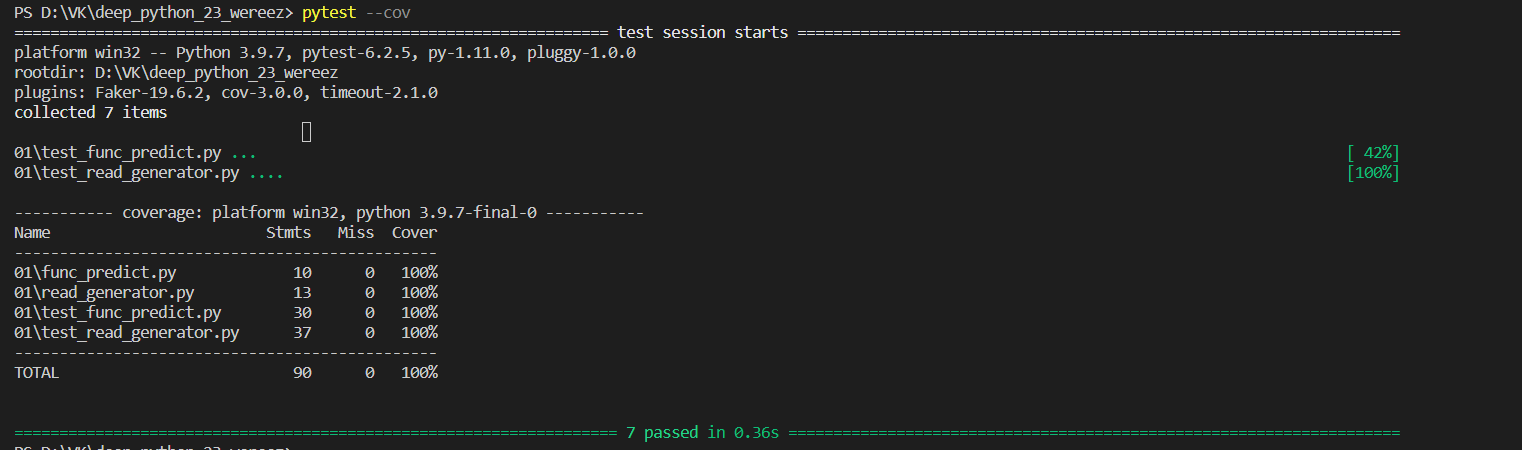
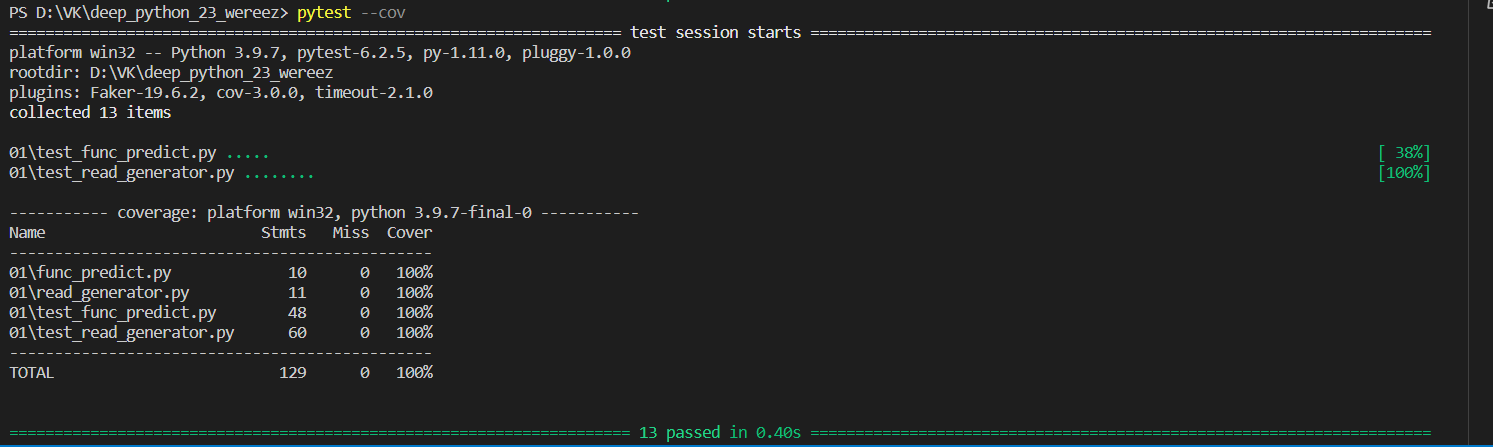
Дз1 попытка 2

diff --git a/01/test_read_generator.py b/01/test_read_generator.py
@@ -4,13 +4,21 @@ from read_generator import search_words_in_file
 
 
 @pytest.fixture
+def file_content_one_line():
+    content_one_line = (
+        "кактусовый"
+    )
+    return io.StringIO(content_one_line)
+
+
+@pytest.fixture
 def file_content():
     content = (
         "Ехал Грека через реку\n"
         "видит Грека в реке\n"
         "Сунул Грека руку в реку\n"
         "рак за руку Греку - цап!\n"
-        "Ёж"
+        "Ёжик"
     )
     return io.StringIO(content)
 
@@ -24,7 +32,7 @@ def file_name(tmp_path):
         "видит Грека в реке\n"
         "Сунул Грека руку в реку\n"
         "рак за руку Греку - цап!\n"
-        "Ёж"
+        "Ёжик"
     )
     with open(file_path, "w", encoding="utf-8") as file:
         file.write(content)
@@ -33,7 +41,7 @@ def file_name(tmp_path):
 
 @pytest.fixture
 def words():
-    return ["Грека", "Ёж", " ", "рек", "реку"]
+    return ["Грека", "Ёжик", "рак"]
 
 
 @pytest.fixture
@@ -43,13 +51,13 @@ def expected_answer():
         "видит Грека в реке",
         "Сунул Грека руку в реку",
         "рак за руку Греку - цап!",
-        "Ёж",
+        "Ёжик",
     ]
 
 
 def test_read_generator_with_file_one_word(file_name):
-    words = ["Ёж"]
-    expected_result = ["Ёж"]
+    words = ["Ёжик"]
+    expected_result = ["Ёжик"]
     result = list(search_words_in_file(file_name, words))
     assert result == expected_result
 
@@ -71,3 +79,36 @@ def test_read_generator_incorrect_input():
 
     with pytest.raises(ValueError):
         list(search_words_in_file(["some list"], []))
+
+
+def test_read_generator_case_insensitive(file_name):
+    words = ["ёжик"]
+    expected_result = [
+        "Ёжик",
+    ]
+    result = list(search_words_in_file(file_name, words))
+    assert result == expected_result
+
+
+def test_read_generator_multiple_words_in_line(file_name):
+    words = ["рак", "руку"]
+    expected_result = [
+        "Сунул Грека руку в реку",
+        "рак за руку Греку - цап!",
+    ]
+    result = list(search_words_in_file(file_name, words))
+    assert result == expected_result
+
+
+def test_read_generator_partial_word_match(file_content_one_line, file_name):
+    words = ["кактус"]
+    result = list(search_words_in_file(file_content_one_line, words))
+    assert result == []
+
+
+def test_read_generator_whole_word_match_in_file(
+        file_content_one_line, file_name):
+    words = ["кактусовый"]
+    expected_result = ["кактусовый"]
+    result = list(search_words_in_file(file_content_one_line, words))
+    assert result == expected_result

diff --git a/01/test_func_predict.py b/01/test_func_predict.py
@@ -14,7 +14,7 @@ def mock_model():
     return mock.Mock(spec=SomeModel)
 
 
-def test_predict(test_model, mock_model):
+def test_predict_model(test_model, mock_model):
     with mock.patch("func_predict.SomeModel.predict") as mock_predict:
         mock_predict.return_value = 1/3
         assert test_model.predict("1/3") == 1/3
@@ -26,6 +26,15 @@ def test_predict(test_model, mock_model):
         assert expected_calls == mock_predict.mock_calls
 
 
+def test_what_is_passed_to_predict_model(test_model, mock_model):
+    with mock.patch("func_predict.SomeModel.predict") as mock_predict:
+        test_model.predict("1/3")
+        assert [mock.call("1/3")] == mock_predict.mock_calls
+        test_model.predict("1000")
+        expected_calls = [mock.call("1/3"), mock.call("1000")]
+        assert expected_calls == mock_predict.mock_calls
+
+
 def test_predict_message_mood(test_model):
     assert predict_message_mood("", test_model) == "норм"
     assert predict_message_mood("", test_model, 0.1, 0.1) == "отл"
@@ -33,12 +42,30 @@ def test_predict_message_mood(test_model):
     assert predict_message_mood("", test_model, 0.5, 0.5) == "норм"
 
 
-def test_model_predict(mock_model):
+def test_model_change_thresholds_predict(mock_model):
     mock_model.predict.return_value = 5
     assert predict_message_mood("", mock_model, 0, 4.99) == "отл"
+    assert predict_message_mood("", mock_model, 0, 5.01) == "норм"
+    assert predict_message_mood("", mock_model, 5.01, 10) == "неуд"
 
-    mock_model.predict.return_value = 0.5
-    assert predict_message_mood("", mock_model) == "норм"
 
+def test_model_predict_thresholds(mock_model):
+    # Проверяем, что пороговые значения правильно обрабатываются
+    mock_model.predict.return_value = 4.99
+    lower_threshold = 0
+    upper_threshold = 4.99
+    assert predict_message_mood(
+        "", mock_model, lower_threshold, upper_threshold) == "норм"
     mock_model.predict.return_value = 0
-    assert predict_message_mood("", mock_model, 1.5, 10) == "неуд"
+    assert predict_message_mood(
+        "", mock_model, lower_threshold, upper_threshold) == "норм"
+
+    # Проверяем, что значения около порогов обрабатываются корректно
+    mock_model.predict.return_value = 4.98001
+    lower_threshold = 4.98
+    upper_threshold = 5.01
+    assert predict_message_mood(
+        "", mock_model, lower_threshold, upper_threshold) == "норм"
+    mock_model.predict.return_value = 5.0100001
+    assert predict_message_mood(
+        "", mock_model, lower_threshold, upper_threshold) == "отл"

diff --git a/01/read_generator.py b/01/read_generator.py
@@ -4,15 +4,14 @@ import io
 
 def search_words_in_file(file, search_words):
     """Генератор для чтения и поиска по файлу"""
-    if isinstance(file, str):
-        with open(file, "r", encoding="utf-8") as text:
-            for line in text:
-                if any(word.lower() in line.lower() for word in search_words):
-                    yield line
-    elif isinstance(file, io.StringIO):
+    if isinstance(file, (io.StringIO, str)):
+        if isinstance(file, str):
+            file = open(file, "r", encoding="utf-8")
         file.seek(0)
         for line in file:
-            if any(word.lower() in line.lower() for word in search_words):
+            if any(word.lower() in line.lower().split()
+                   for word in search_words):
                 yield line.strip()
+        file.close()
     else:
         raise ValueError()
